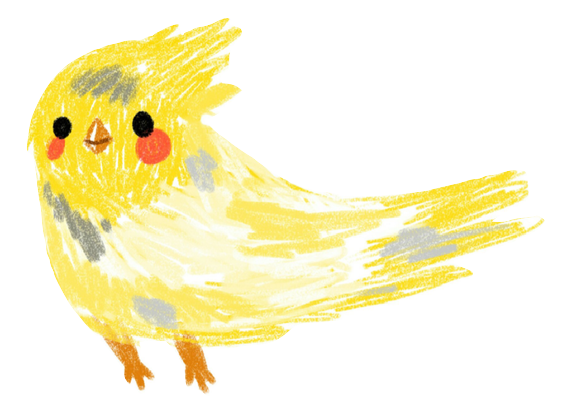
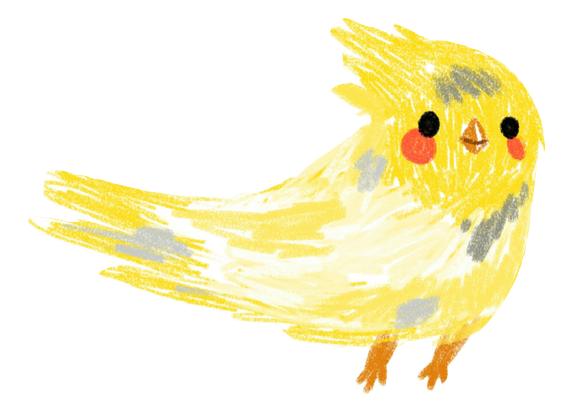
Kind of don't want to work on this anymore, still need to implement APIS

diff --git a/src/components/secondSection.vue b/src/components/secondSection.vue
@@ -2,10 +2,18 @@
 
   <section class="secondSection">
     <div class="container">
-      <div class="text">
+    <div class="row">
+      <div class="text col-6">
+        <div class="row">
         <h1>Having a tough day?</h1>
         <h3>We all know that the toughest days require the cutest of cats. Check out our collection of extremely cute cats to get you trough the day</h3>
-        <button class="btn customButton">Make me happy!</button>
+        <button class="btn myFooter">Make me happy!</button>
+        </div>
+        <img class="row" src="../assets/calopsita.png">
+      </div>
+      <div class="col">
+        <img src="../assets/gato.png"
+      </div>
       </div>
     </div>
   </section>
@@ -14,13 +22,13 @@
 
 <script lang="js">
 
-  import customButton from "@/components/customButton.vue"
+  import myFooter from "@/components/myFooter.vue"
 
 
   export default  {
     name: 'secondSection',
     components: {
-      customButton,
+      myFooter,
     },
 
     props: [],
@@ -47,16 +55,11 @@
   height: 700px;
   z-index: 100;
   position: relative;
-  clip-path: polygon(3% 3%, 92% 12%, 100% 70%, 1% 84%);
-
+  clip-path: polygon(3% 3%, 92% 12%, 100% 85%, 0 100%);
 
 
 }
 .secondSection .container {
-  /* background-image: url("https://i.imgur.com/q4MZUdT.png");
-    background-repeat: no-repeat;
-    background-position: right center;
-    height: 400px; */
   width: 95%;
 }
 
@@ -99,5 +102,12 @@
   border: white 1px solid;
   border-bottom: 0px;
   border-right: 0px;
+}
+
+img{
+  padding-top: 20px;
+  height: 400px;
+  width: auto;
+  float: left;
 }
 </style>

diff --git a/src/views/Home.vue b/src/views/Home.vue
@@ -4,6 +4,7 @@
     <firstSection></firstSection>
     <secondSection></secondSection>
     <thirdSection></thirdSection>
+    <myFooter></myFooter>
   </div>
 </template>
 
@@ -13,11 +14,12 @@ import navbar from "@/components/navbar.vue";
 import firstSection from "@/components/firstSection.vue";
 import secondSection from "@/components/secondSection.vue";
 import thirdSection from "@/components/thirdSection.vue";
+import myFooter from "@/components/myFooter.vue"
 
 export default {
   name: "home",
   components: {
-    navbar, firstSection, secondSection, thirdSection
+    navbar, firstSection, secondSection, thirdSection, myFooter
   }
 };
 </script>

diff --git a/src/components/myFooter.vue b/src/components/myFooter.vue
@@ -1,14 +1,14 @@
 <template lang="html">
 
-  <section class="customButton">
-  <button class="btn">Start out!</button>
+  <section class="myFooter">
+  
   </section>
 
 </template>
 
 <script lang="js">
   export default  {
-    name: 'customButton',
+    name: 'myFooter',
     props: [],
     mounted() {
 
@@ -28,12 +28,10 @@
 </script>
 
 <style scoped lang="css">
-  .customButton .btn{
-    color: #fff;
-    background-color: #EE76A5;
-    width: 160px;
-    padding: 0px;
-    font-size: 25px;
-    font-weight: bold;
-  }
+
+.myFooter{
+  height: 200px;
+  background-color: black;
+}
+
 </style>

diff --git a/src/views/login.vue b/src/views/login.vue
@@ -2,7 +2,7 @@
   <div class="login">
     <navbar></navbar>
     <firstSection></firstSection>
-    <customButton></customButton>
+    <myFooter></myFooter>
   </div>
 </template>
 
@@ -10,13 +10,13 @@
 // @ is an alias to /src
 import navbar from "@/components/navbar.vue";
 import firstSection from "@/components/firstSection.vue";
-import customButton from "@/components/customButton.vue";
+import myFooter from "@/components/myFooter.vue";
 
 
 export default {
   name: "login",
   components: {
-    navbar, firstSection, customButton
+    navbar, firstSection, myFooter
   }
 };
 </script>

diff --git a/src/components/thirdSection.vue b/src/components/thirdSection.vue
@@ -1,7 +1,22 @@
 <template lang="html">
 
   <section class="third-section">
-    <h1>third-section Component</h1>
+    <div class="container">
+      <h1 class="text-align-center">API's Used</h1>
+      <div class="row">
+        <div class="col">
+          <div class="card">
+            <h1>The Dog API</h1>
+          </div> 
+        </div>
+        <div class="col">
+          <div class="card">
+            <h1>The Cat API</h1>
+          </div>
+        </div>
+      </div>
+    </div>
+    
   </section>
 
 </template>

diff --git a/src/views/me-irl.vue b/src/views/me-irl.vue
@@ -1,19 +1,19 @@
 <template>
   <div class="me-irl">
     <navbar></navbar>
-    <customButton></customButton>
+    <myFooter></myFooter>
   </div>
 </template>
 
 <script>
 // @ is an alias to /src
 import navbar from "@/components/navbar.vue";
-import customButton from "@/components/customButton.vue";
+import myFooter from "@/components/myFooter.vue";
 
 export default {
   name: "me-irl",
   components: {
-    navbar, customButton
+    navbar, myFooter
   }
 };
 </script>

diff --git a/src/App.vue b/src/App.vue
@@ -10,6 +10,6 @@
   -webkit-font-smoothing: antialiased;
   -moz-osx-font-smoothing: grayscale;
   color: #2c3e50;
-  background-color: #fcf37c;
+  background-color: #000;
 }
 </style>

diff --git a/src/components/firstSection.vue b/src/components/firstSection.vue
@@ -47,7 +47,7 @@
 
 .firstSection img {
   height: 400px;
-  width: 100%;
+  width: auto;
   filter: grayscale(100%);
   margin-top: 70px;
   transition: filter 1s, margin-top 1s;
